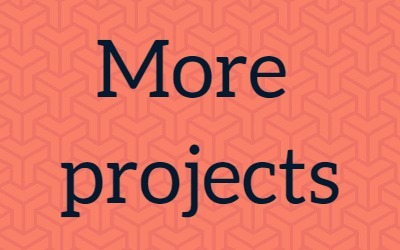
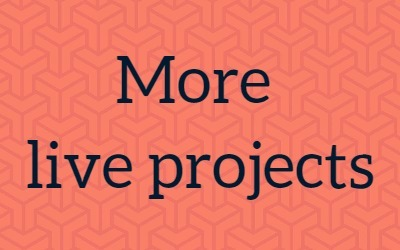
project section successfully added

Changed region(s): [[0.06, 0.56, 0.96, 0.896], [0.24, 0.14, 0.72, 0.42]]

diff --git a/index.html b/index.html
@@ -411,30 +411,30 @@
 			</section>
 
 			<section class="section-projects" id="projects">
-				<h2>My Projects</h2>
+				<h2>My Projects (Live)</h2>
 				<div class="row">
 					<div class="my-projects project-1">
 						<div class="project-links">
-							<a class="btn" href="#" target="_blank">Visit Site</a>
-							<a class="btn" href="#" target="_blank">View Code</a>
+							<a class="btn" href="https://lucidkodo-fe-omnifood.herokuapp.com/" target="_blank">Visit Site</a>
+							<a class="btn" href="https://github.com/lucidkodo/FE-Omnifood" target="_blank">View Code</a>
 						</div>
 						<h3 class="project-name">HTML & CSS &mdash; Omnifood</h3>
 					</div>
 
 					<div class="my-projects project-2">
 						<div class="project-links">
-							<a class="btn" href="#" target="_blank">Visit Site</a>
-							<a class="btn" href="#" target="_blank">View Code</a>
+							<a class="btn" href="https://lucidkodo-js-budgety.herokuapp.com/" target="_blank">Visit Site</a>
+							<a class="btn" href="https://github.com/lucidkodo/JS-Budgety" target="_blank">View Code</a>
 						</div>
-						<h3 class="project-name">Javascript &mdash; Classic Pig Game</h3>
+						<h3 class="project-name">Javascript &mdash; Budgety</h3>
 					</div>
 
 					<div class="my-projects project-3">
 						<div class="project-links">
-							<a class="btn" href="#" target="_blank">Visit Site</a>
-							<a class="btn" href="#" target="_blank">View Code</a>
+							<a class="btn" href="https://lucidkodo-js-pig-game.herokuapp.com/" target="_blank">Visit Site</a>
+							<a class="btn" href="https://github.com/lucidkodo/JS-Pig-Game" target="_blank">View Code</a>
 						</div>
-						<h3 class="project-name">Javascript &mdash; Budgety</h3>
+						<h3 class="project-name">Javascript &mdash; Classic Pig Game</h3>
 					</div>
 
 					<div class="my-projects future-project">

diff --git a/resources/css/style.css b/resources/css/style.css
@@ -294,10 +294,13 @@ header {
 /* ----------------------------------------------- */
 /*   SECTION-PROJECTS   */
 /* ----------------------------------------------- */
-.section-projects { background-color: #dadedf }
+.section-projects { 
+	background-color: #dadedf;
+	padding: 50px 70px;  
+}
 
 .my-projects {
-	margin: 10px 20px;
+	margin: 30px 20px;
 	width: 30%;
 	display: inline-block;
 	background-size: cover;
@@ -325,11 +328,10 @@ header {
 .project-links { transition: opacity 0.2s, visibility 0.2s }
 
 .project-1 { background-image: url(../img/ss-omnifood.jpg) }
-.project-2 { background-image: url(../img/ss-pig-game.jpg) }
-.project-3 { background-image: url(../img/ss-budgety.jpg) }
+.project-2 { background-image: url(../img/ss-budgety.jpg) }
+.project-3 { background-image: url(../img/ss-pig-game.jpg) }
 .future-project { background-image: url(../img/more-projects.jpg) }
 .project-2, .project-3 { background-position: center }
-
 
 .project-name {
 	color: #014d6f; 
